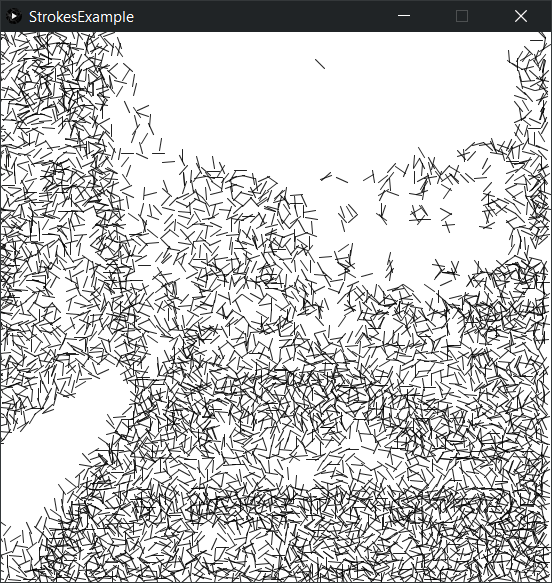
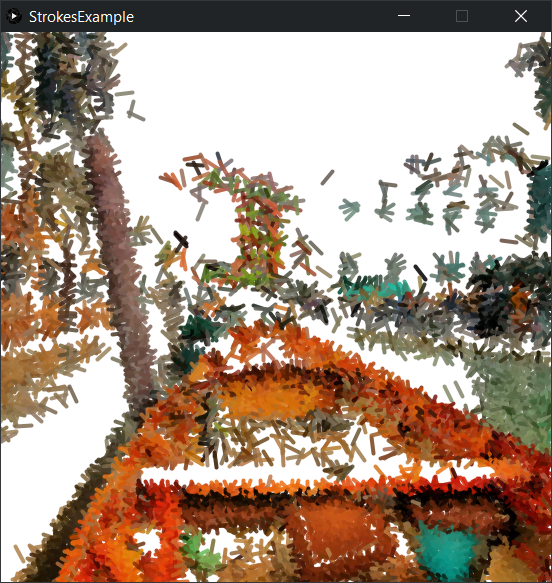
Updateing stroke screenshot and adding some docu

diff --git a/README.md b/README.md
@@ -237,9 +237,17 @@ PImage processedImage = Glitch.apply(image, intensity, scanlineheight);
 #### Strokes image
 ![alt lookup-table](https://github.com/Milchreis/processing-imageprocessing/blob/master/img/strokes.png?raw=true)
 ```java
-// gridSize is positive and the area for compound pixels
-// lineLength is positive and the length in pixels for each line
+// gridSize 
+// lineLength 
 PImage processedImage = Strokes.apply(image, gridSize, lineLength);
+PImage processedImage = Strokes.apply(image, 
+    gridSize,           // is positive and the area for compound pixels 
+    lineLength,         // is positive and the length in pixels for each line
+    lineWeight,         // is positive and the weight of each line in pixel
+    linesPerGrid,       // the number of lines per grid
+    lineIntensity,      // alpha value for each line between 0 and 255
+    inColor,            // true for colors else black and white
+    backgroundColor);   // color for the background
 ```
 
 #### Dithering
